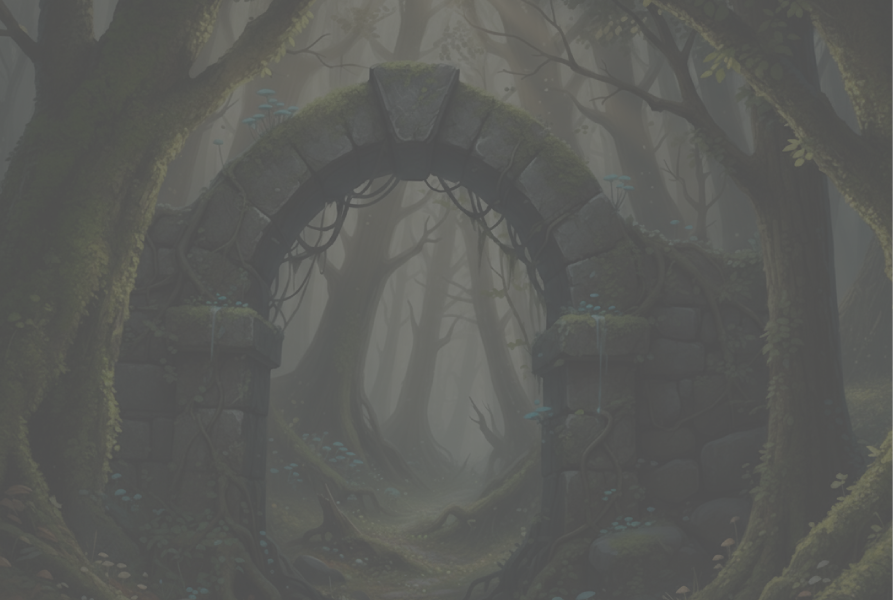
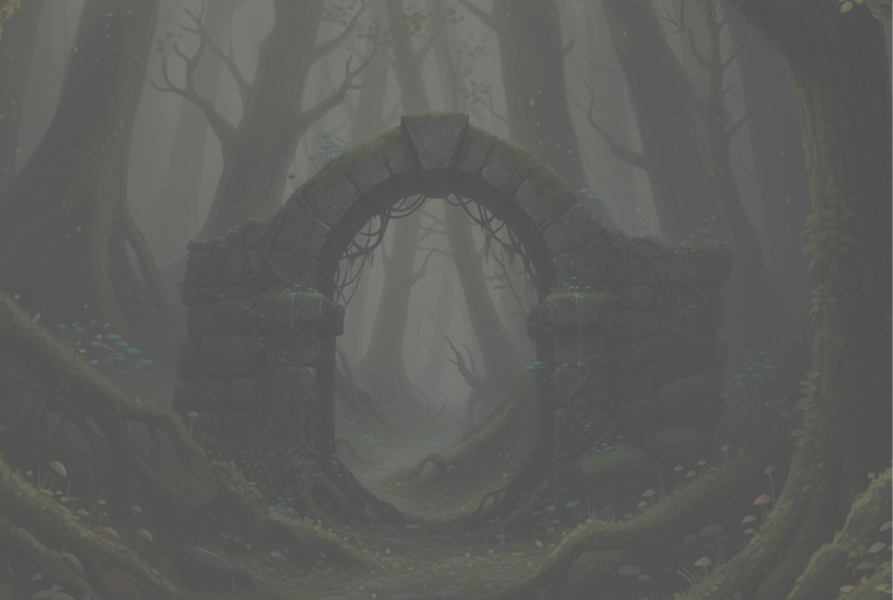
add

diff --git a/screens/adventure.py b/screens/adventure.py
@@ -1,28 +1,123 @@
 import pygame
-from typing import Dict, Optional
+from typing import Dict, List, Optional
 
-from settings.settings import LAYOUT, C, UIButton
+from settings.settings import WINDOW, LAYOUT, C, UIButton
 from screens.base import BaseScreen
 
 
 class AdventureScreen(BaseScreen):
     """冒険画面"""
 
+    ACTIONS = [
+        {"name": "Assemble your team",     "desc": "Choose party members for the journey ahead."},
+        {"name": "Prepare your belongings", "desc": "Equip weapons, armor, and accessories."},
+        {"name": "Start Adventure",         "desc": "Venture into the dungeon and face the unknown."},
+    ]
+
     def __init__(self, screen: pygame.Surface, fonts: Dict, assets: Dict):
         super().__init__(screen, fonts, assets)
+        self.selected = 0
+
         self.btn_back = UIButton(
             pygame.Rect(LAYOUT.padding, LAYOUT.padding, 120, 36),
             "< Village", C.gold, C.gold_dim, C.charcoal
         )
 
+    def _get_item_rects(self) -> List[pygame.Rect]:
+        x = 100
+        start_y = 280
+        item_h = 50
+        rects = []
+        for i in range(len(self.ACTIONS)):
+            rects.append(pygame.Rect(x, start_y + i * item_h, 400, item_h))
+        return rects
+
     def handle_event(self, event: pygame.event.Event) -> Optional[str]:
         if event.type == pygame.MOUSEBUTTONDOWN and event.button == 1:
             if self.btn_back.clicked(event.pos):
                 return "village"
+            item_rects = self._get_item_rects()
+            for i, rect in enumerate(item_rects):
+                if rect.collidepoint(event.pos):
+                    self.selected = i
+                    self._execute_action(i)
+
+        elif event.type == pygame.MOUSEMOTION:
+            item_rects = self._get_item_rects()
+            for i, rect in enumerate(item_rects):
+                if rect.collidepoint(event.pos):
+                    self.selected = i
+
         elif event.type == pygame.KEYDOWN:
             if event.key == pygame.K_ESCAPE:
                 return "village"
+            n = len(self.ACTIONS)
+            if event.key == pygame.K_UP:
+                self.selected = (self.selected - 1) % n
+            elif event.key == pygame.K_DOWN:
+                self.selected = (self.selected + 1) % n
+            elif event.key == pygame.K_RETURN:
+                self._execute_action(self.selected)
+
         return None
 
+    def _execute_action(self, index: int):
+        # TODO: 各アクションの処理を実装
+        pass
+
     def draw(self):
-        self.draw_placeholder("Adventure", None)
+        # 背景画像
+        bg_img = self.assets.get("adventure_img")
+        if bg_img:
+            self.screen.blit(bg_img, (0, 0))
+            overlay = pygame.Surface((WINDOW.width, WINDOW.height),
+                                     pygame.SRCALPHA)
+            overlay.fill((0, 0, 0, 80))
+            self.screen.blit(overlay, (0, 0))
+        else:
+            self.screen.fill(C.black)
+
+        # タイトル
+        title = self.fonts["title"].render("Adventure", True, C.white)
+        self.screen.blit(title, (100, 180))
+
+        sub = self.fonts["small"].render("What would you like to do?",
+                                         True, C.parchment_dark)
+        self.screen.blit(sub, (100, 220))
+
+        # メニューリスト
+        item_rects = self._get_item_rects()
+        for i, (action, rect) in enumerate(zip(self.ACTIONS, item_rects)):
+            selected = (i == self.selected)
+            color = C.gold if selected else C.parchment_dark
+
+            # 三角カーソル
+            if selected:
+                tri_x = rect.x - 10
+                tri_y = rect.y + rect.h // 2
+                pygame.draw.polygon(self.screen, C.gold, [
+                    (tri_x - 14, tri_y - 8),
+                    (tri_x - 14, tri_y + 8),
+                    (tri_x, tri_y),
+                ])
+
+            name_surf = self.fonts["village"].render(action["name"], True, color)
+            self.screen.blit(name_surf, (rect.x, rect.y + 8))
+
+        # 説明文
+        action = self.ACTIONS[self.selected]
+        desc_x = 500
+        desc_y = 400
+        for line in self.wrap_text(action["desc"], self.fonts["body"], 500):
+            desc_surf = self.fonts["body"].render(line, True, C.parchment)
+            self.screen.blit(desc_surf, (desc_x, desc_y))
+            desc_y += 24
+
+        # 戻るボタン
+        self.btn_back.draw(self.screen, self.fonts["body"])
+
+        # 操作ヒント
+        hint = self.fonts["small"].render(
+            "Up/Down to select  |  Enter or Click to confirm  |  Esc to go back",
+            True, C.parchment_dark)
+        self.screen.blit(hint, (100, WINDOW.height - 60))

diff --git a/screens/shop.py b/screens/shop.py
@@ -174,9 +174,9 @@ class ShopScreen(BaseScreen):
     def _get_category_rects(self) -> List[pygame.Rect]:
         rects = []
         x = 100
-        start_y = 200
+        start_y = 280
         for i in range(len(self.categories)):
-            rects.append(pygame.Rect(x, start_y + i * 60, 350, 50))
+            rects.append(pygame.Rect(x, start_y + i * 50, 350, 50))
         return rects
 
     def _handle_category_click(self, pos: Tuple[int, int]):
@@ -267,17 +267,14 @@ class ShopScreen(BaseScreen):
         else:
             self.screen.fill(C.black)
 
-        # タイトルバー
-        title_rect = pygame.Rect(0, 0, WINDOW.width, 70)
-        pygame.draw.rect(self.screen, C.charcoal, title_rect)
-        pygame.draw.line(self.screen, C.gold, (0, 70), (WINDOW.width, 70), 2)
-        title = self.fonts["title"].render("Shop", True, C.gold)
-        self.screen.blit(title, (WINDOW.width // 2 - title.get_width() // 2, 8))
+        # タイトル（左寄せ、Village風）
+        title = self.fonts["title"].render("Shop", True, C.white)
+        self.screen.blit(title, (100, 180))
 
         # 所持金表示
         gold_str = f"Gold: {self.gold:,}"
         gold_surf = self.fonts["header"].render(gold_str, True, C.gold)
-        self.screen.blit(gold_surf, (WINDOW.width - gold_surf.get_width() - 30, 14))
+        self.screen.blit(gold_surf, (100, 600))
 
         # 戻るボタン
         self.btn_back.text = "< Village" if self.state == self.ST_CATEGORY else "< Back"
@@ -300,7 +297,7 @@ class ShopScreen(BaseScreen):
     def _draw_category(self):
         sub = self.fonts["small"].render("What would you like to buy?",
                                          True, C.parchment_dark)
-        self.screen.blit(sub, (100, 150))
+        self.screen.blit(sub, (100, 220))
 
         rects = self._get_category_rects()
         for i, (cat, rect) in enumerate(zip(self.categories, rects)):
@@ -324,7 +321,7 @@ class ShopScreen(BaseScreen):
         # 選択中カテゴリの説明文
         cat = self.categories[self.category_selected]
         desc_x = 500
-        desc_y = 330
+        desc_y = 400
         for line in self.wrap_text(cat["Description"], self.fonts["body"], 500):
             desc_surf = self.fonts["body"].render(line, True, C.parchment)
             self.screen.blit(desc_surf, (desc_x, desc_y))

diff --git a/main.py b/main.py
@@ -77,6 +77,7 @@ class Game:
                                ("tavern_img", "tavern.png"),
                                ("lodge_img", "lodge.png"),
                                ("shop_img", "shop.png"),
+                               ("adventure_img", "dungeon-entrance.png"),
                                ]:
             path = os.path.join(base_dir, "img", filename)
             if os.path.exists(path):
